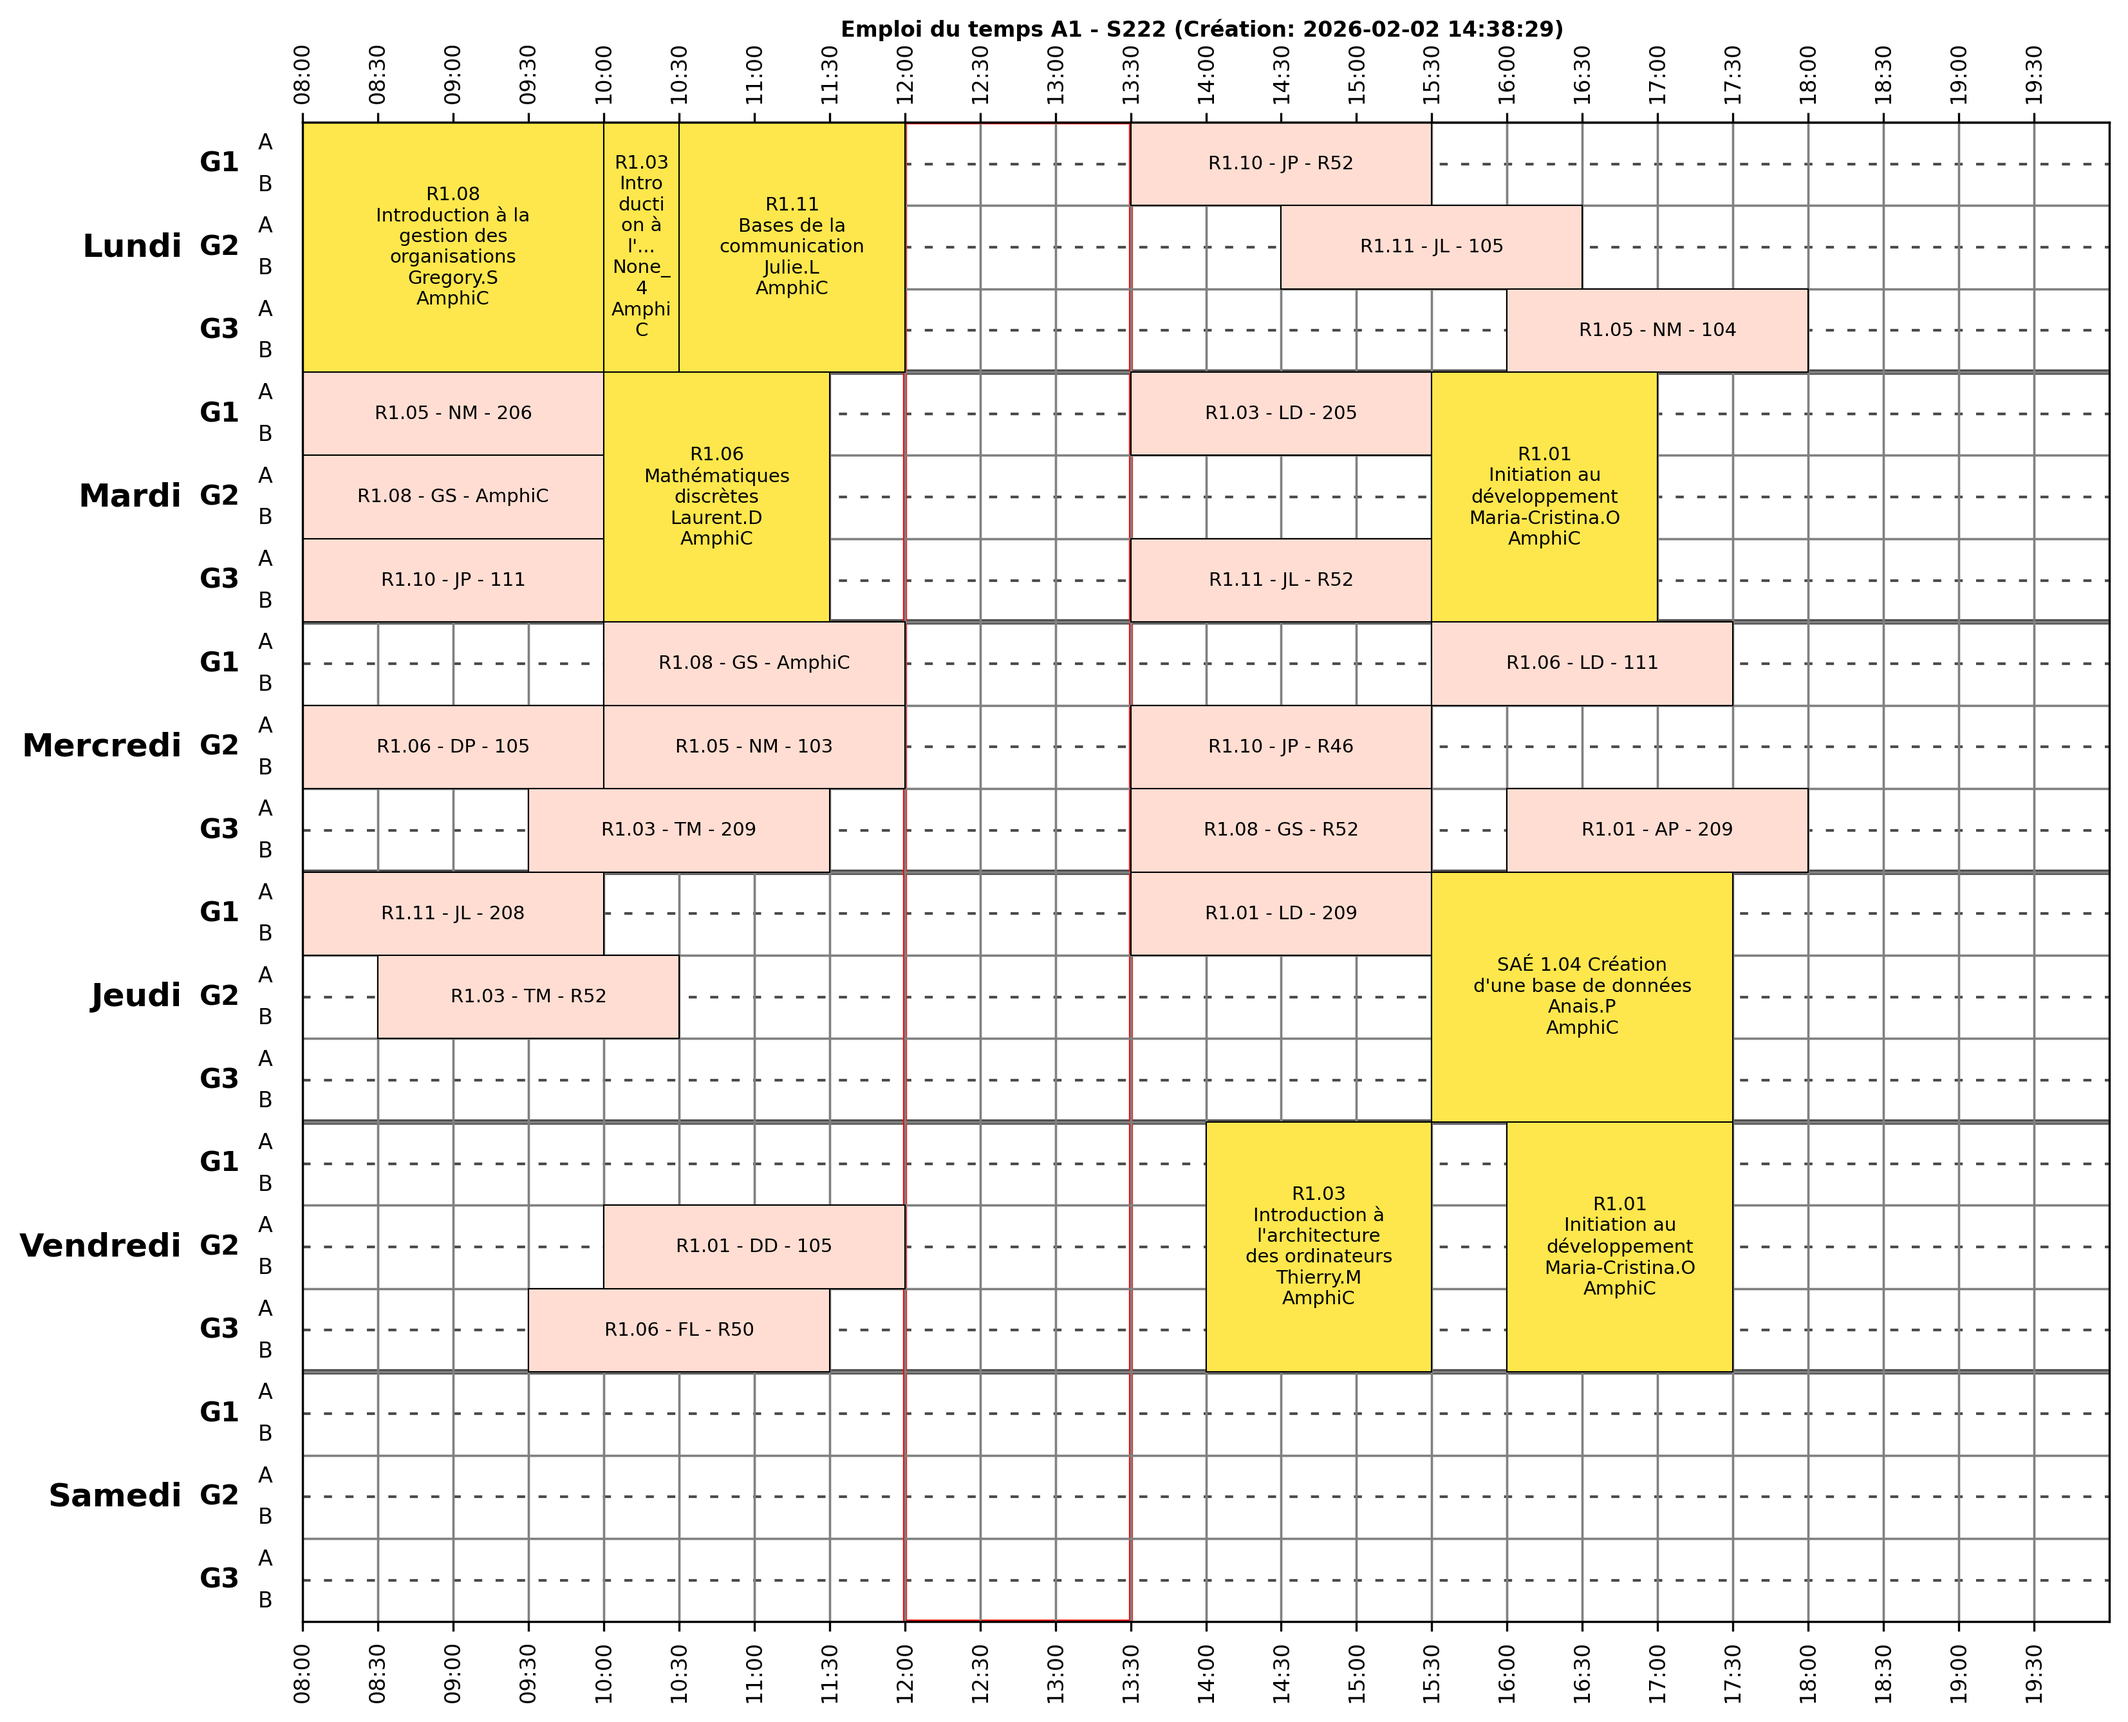
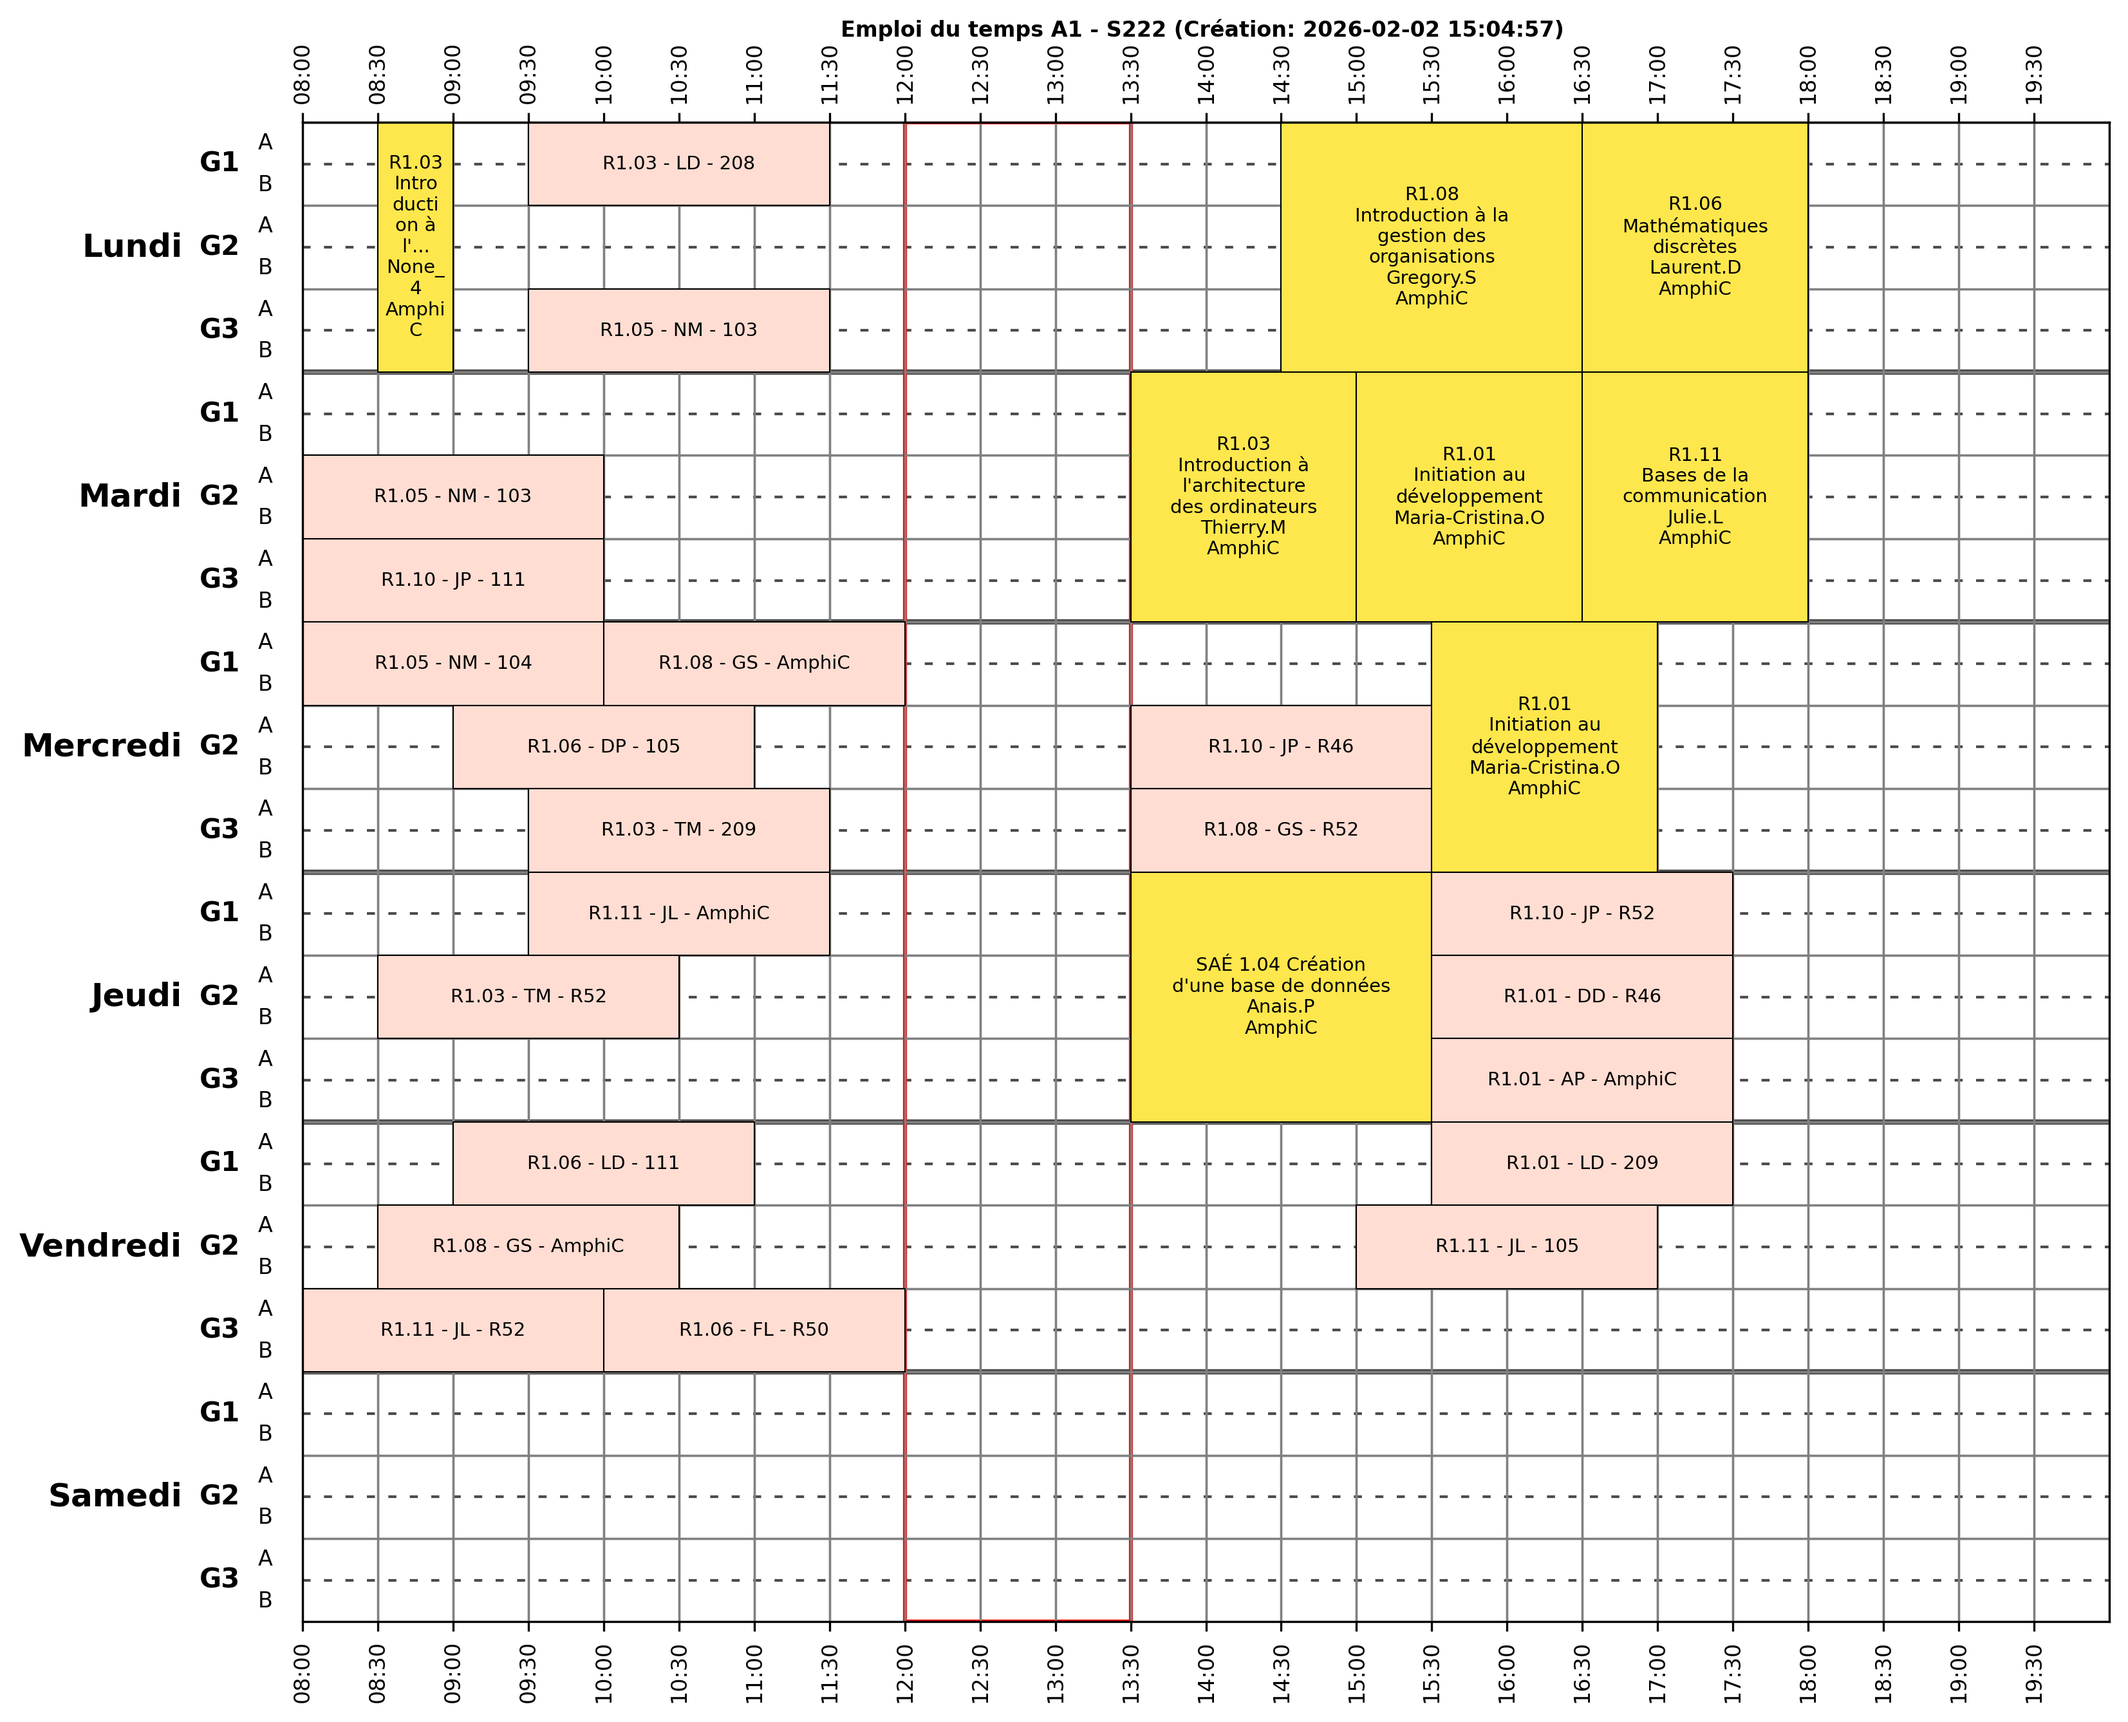
suppression de cours fixed

diff --git a/resources/js/Pages/ProvisionnalCalendarEdtEditorPage.vue b/resources/js/Pages/ProvisionnalCalendarEdtEditorPage.vue
@@ -1106,11 +1106,6 @@ async function saveEdt() {
     return
   }
 
-  if (placements.value.length === 0) {
-    alert('Aucun placement à sauvegarder.')
-    return
-  }
-
   // Client-side validation: ensure each placement has required fields to avoid DB errors
   const clientErrors: string[] = []
   placements.value.forEach((p, idx) => {
